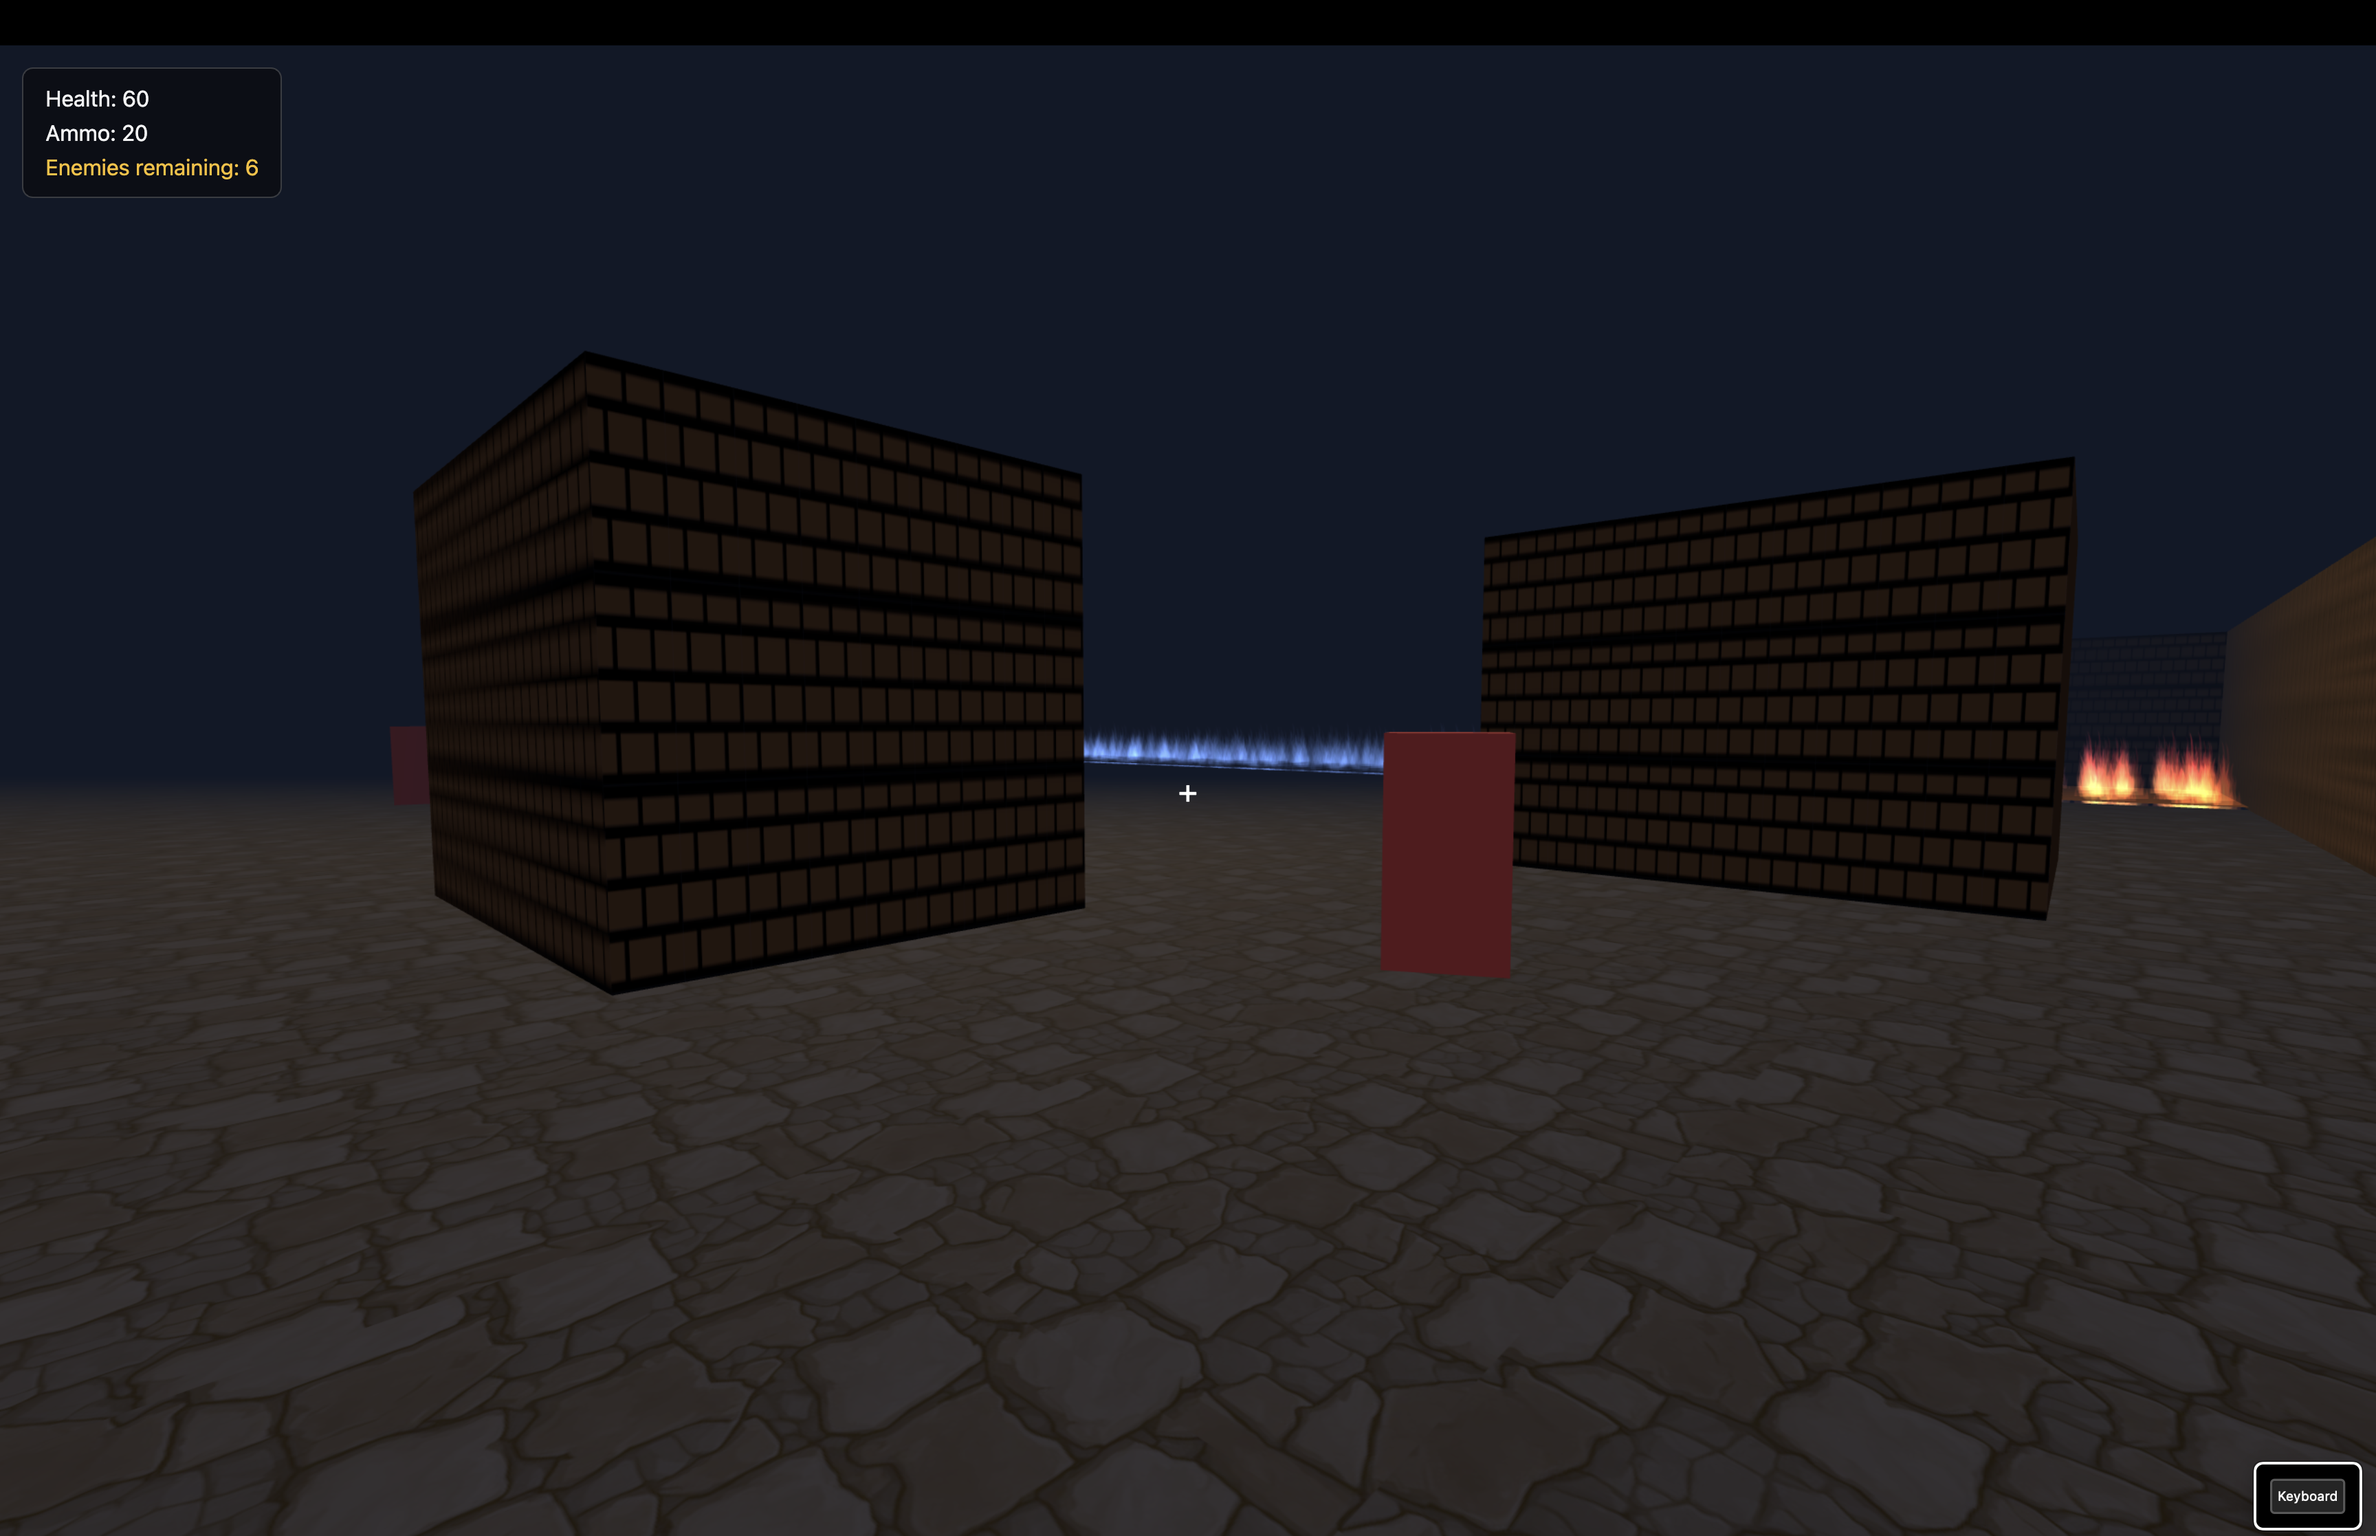
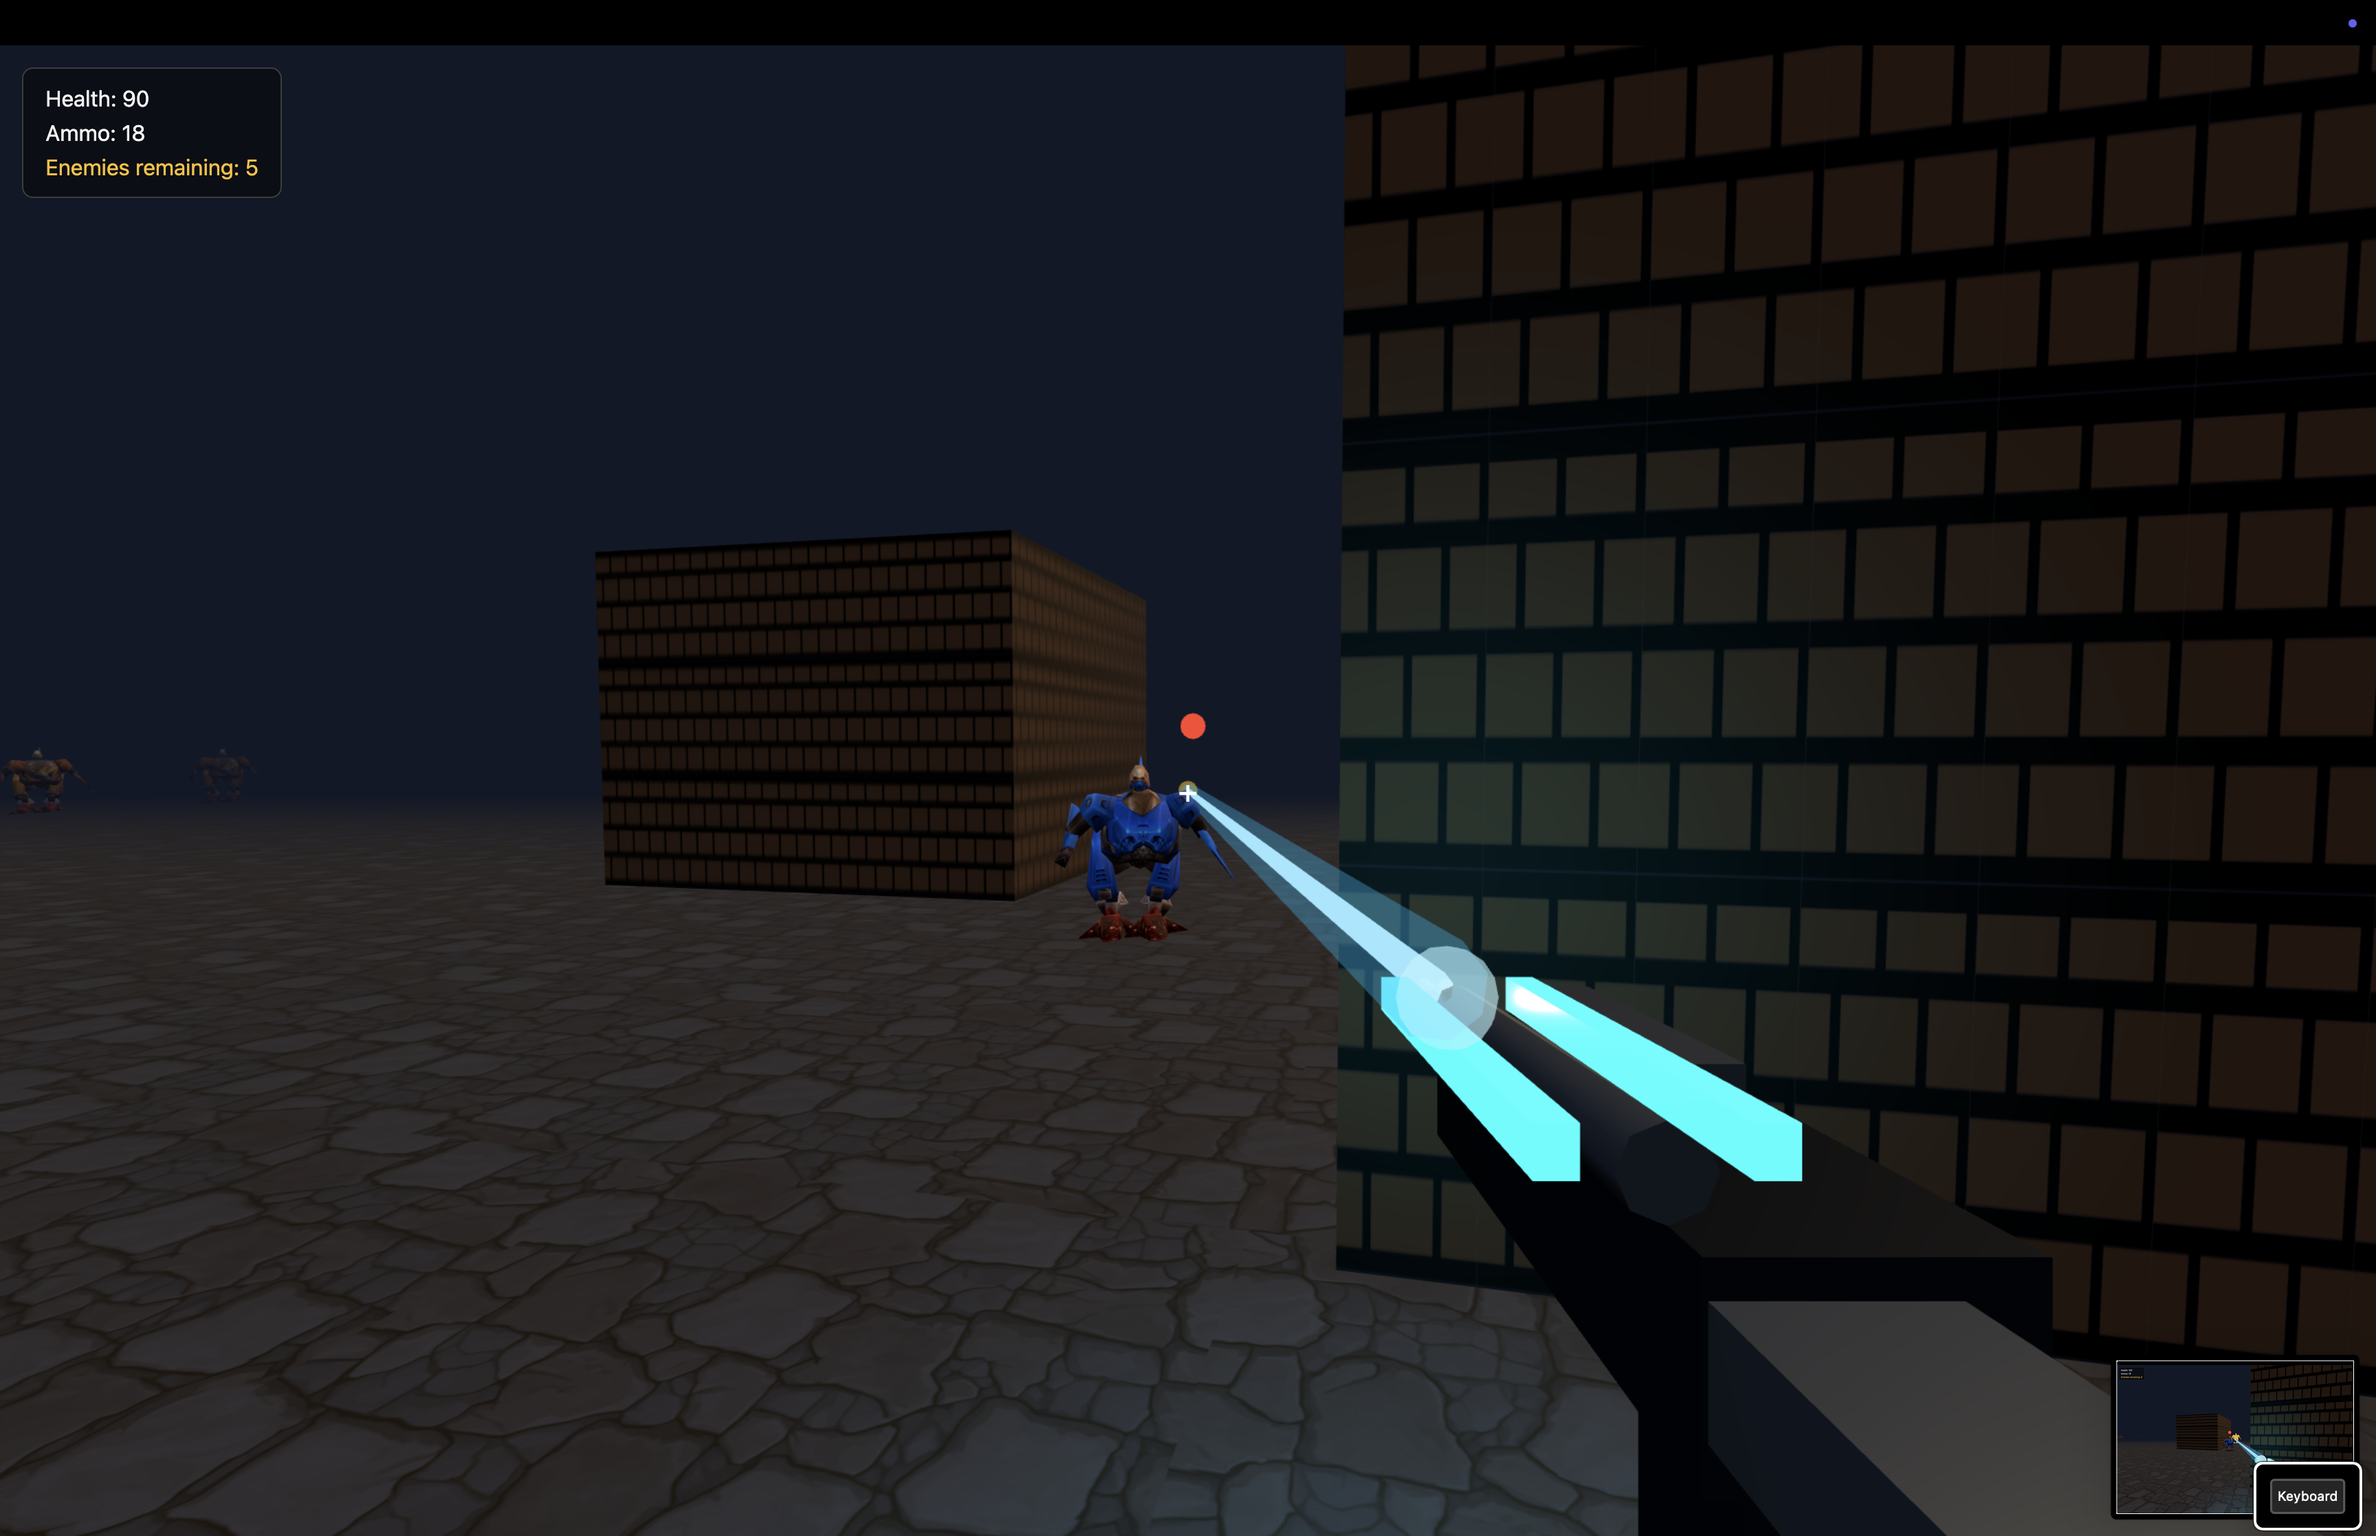
fix readme

diff --git a/README.md b/README.md
@@ -1,103 +1,31 @@
 # Retro Shooter 3D
 
-Минималистичный 3D шутер в стиле ретро-арены, созданный на TypeScript и Three.js. Игрок перемещается по уровню от первого лица, уничтожает врагов, собирает боеприпасы и пытается выбраться из опасной зоны.
-
-## Обзор проекта
-
-Это компактная браузерная игра-прототип с:
-
-- 3D-перемещением от первого лица
-- боефой в пространстве арены
-- врагами и боезапасом
-- лавовыми и огненными зонами
-- системой победы и поражения
-- простым, легко редактируемым уровнем
-
-## Ключевые особенности
-
-- Быстрое управление и понятный геймплей
-- Первая камера и обзор мышью
-- Враги, которые атакуют в ближнем бою
-- Подбор патронов и здоровье/боезапас в игре
-- Открытый уровень с опасными зонами и пространством для экспериментов
-- Лёгкий запуск в браузере через Vite
-
-## Управление
-
-- `E`, `S`, `D`, `F` — перемещение
-- `Мышь` — поворот камеры
-- `ЛКМ` — стрельба
-- `Esc` — выход из режима захвата мыши
-
-## Технологии
-
-- TypeScript
-- Three.js
-- Vite
+Браузерный ретро-шутер на арене, созданный на TypeScript, Three.js и Vite. Сражайтесь с врагами Tank-Jr, собирайте патроны и найдите выход.
 
 ## Скриншоты
 
-![Главный экран](docs/screenshots/screenshot-1.png)
+![Бой на арене с рельсотроном](docs/screenshots/screenshot-1.png)
 
-![Игровой процесс](docs/screenshots/screenshot-2.png)
+![Враги Tank-Jr на арене](docs/screenshots/screenshot-2.png)
 
-## Как запустить
+## Управление
 
-1. Установите зависимости:
+- `E` / `D` — идти вперёд / назад
+- `S` / `F` — идти влево / вправо
+- Мышь — осмотр
+- Левая кнопка мыши — выстрел из рельсотрона
+- `Пробел` — прыжок
+- `Esc` — пауза
 
-   ```bash
-   npm install
-   ```
+## Запуск локально
 
-2. Запустите проект локально:
-
-   ```bash
-   npm run dev
-   ```
-
-3. Откройте адрес, который покажет Vite в терминале.
+```bash
+npm install
+npm run dev
+```
 
 ## Сборка
 
 ```bash
 npm run build
 ```
-
-## Структура проекта
-
-```text
-src/
-  game/
-    game.ts
-    level.ts
-    map.ts
-    fire.ts
-    player.ts
-    enemies.ts
-    pickups.ts
-    hud.ts
-    input.ts
-    palette.ts
-    types.ts
-  main.ts
-  style.css
-```
-
-## Планы развития
-
-Проект можно расширять в нескольких направлениях:
-
-- добавление новых типов врагов
-- улучшение ИИ и поведения противников
-- добавление звуков и музыки
-- больше уровней и вариаций карт
-- улучшение визуального стиля и эффектов
-- доработка геймплея и баланса
-
-## Примечание
-
-Это проект-прототип, ориентированный на быструю итерацию и проверку игрового ощущения. Карта и опасные зоны легко редактируются, поэтому уровень удобно настраивать под новые идеи.
-
-## Лицензия
-
-Проект предназначен для личного использования, экспериментов и прототипирования.
